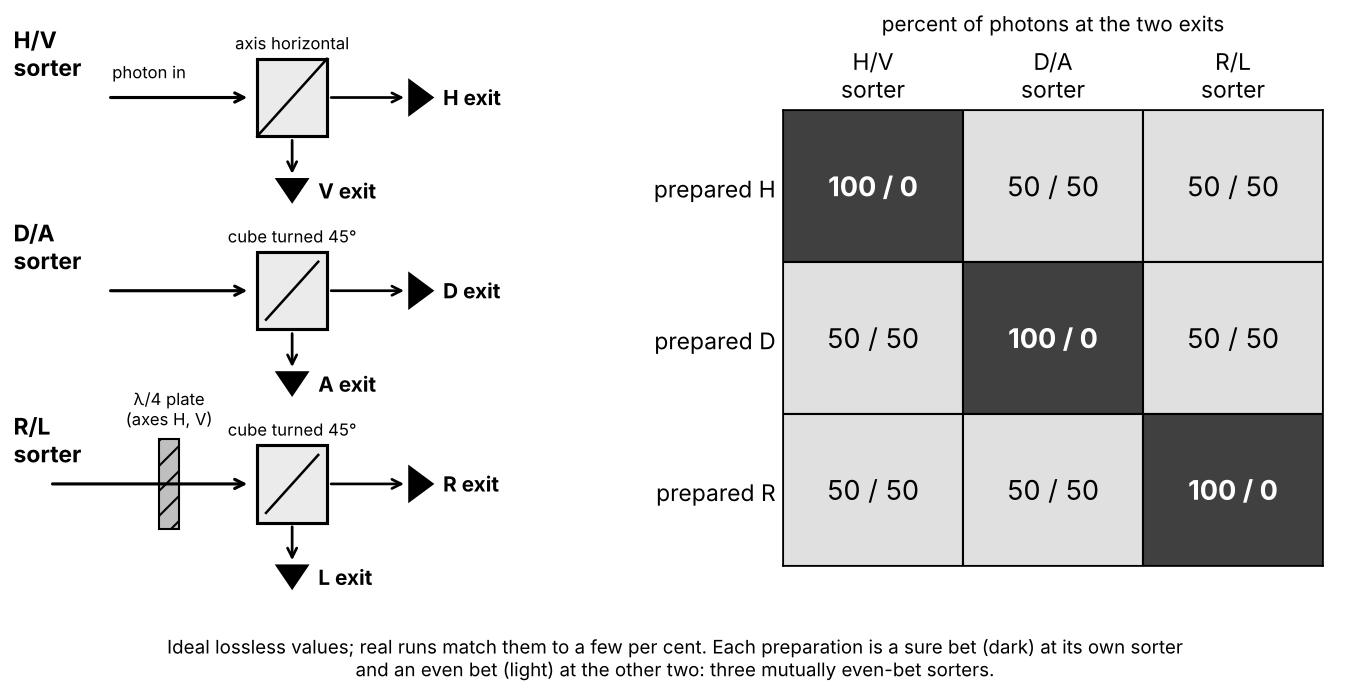
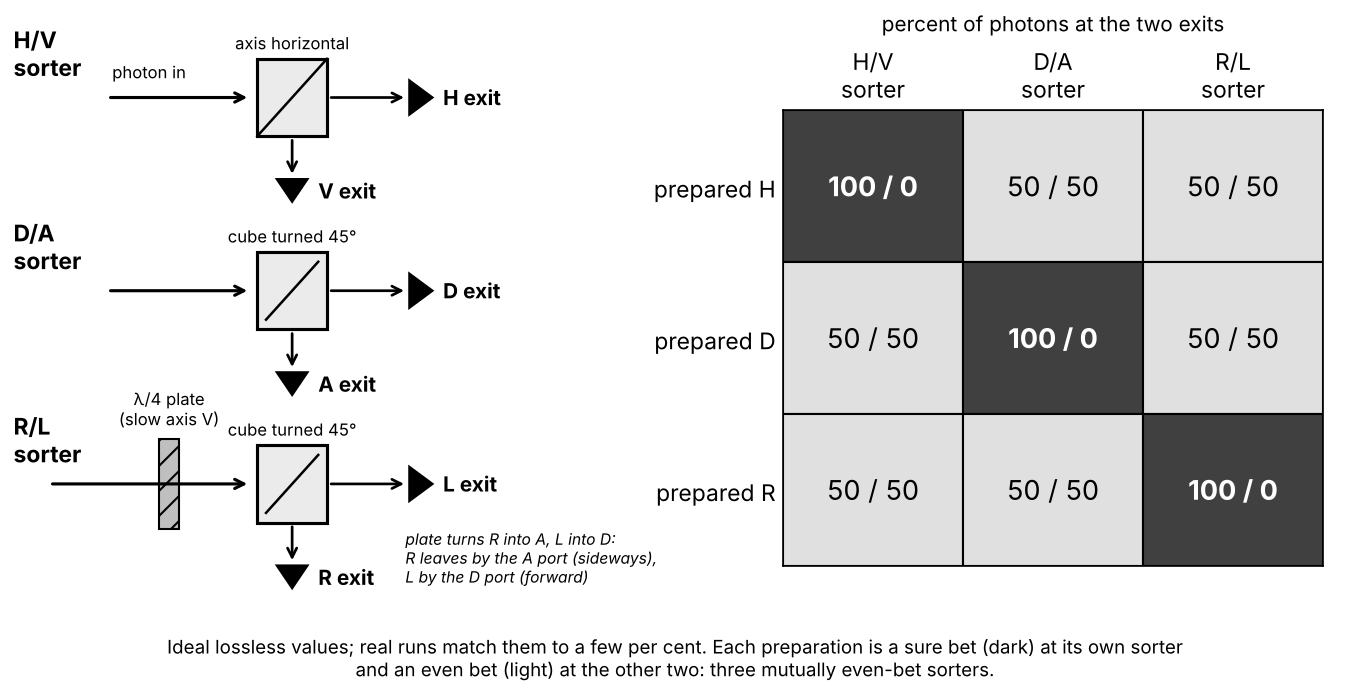
Tutor run (why complex and squared): redrawn C figures
Claude-Session: https://claude.ai/code/session_011EeWx5AEdppYiarvRbDBmd

diff --git a/work/20261010-122105-why-complex-and-squared/checks/fig_c-sorter-table.py b/work/20261010-122105-why-complex-and-squared/checks/fig_c-sorter-table.py
@@ -7,11 +7,11 @@ plt.rcParams.update({"font.size":11})
 fig=plt.figure(figsize=(9,4.6))
 axL=fig.add_axes([0.01,0.14,0.43,0.84]); axR=fig.add_axes([0.58,0.18,0.40,0.66])
 axL.set_xlim(0,10); axL.set_ylim(0,9); axL.axis("off")
-def cube(ax,x,y,rot45,label,qwp=False):
+def cube(ax,x,y,rot45,label,qwp=False,ports=None):
     ax.annotate("",xy=(x-0.1,y),xytext=(x-2.6 if not qwp else x-3.6,y),arrowprops=dict(arrowstyle="->",lw=1.5))
     if qwp:
         ax.add_patch(Rectangle((x-1.7,y-0.7),0.35,1.4,fc="0.75",ec="k",hatch="//"))
-        ax.text(x-1.52,y+0.85,"λ/4 plate\n(axes H, V)",ha="center",va="bottom",fontsize=8)
+        ax.text(x-1.52,y+0.85,"λ/4 plate\n(slow axis V)",ha="center",va="bottom",fontsize=8)
     ax.add_patch(Rectangle((x,y-0.6),1.2,1.2,fc="0.92",ec="k",lw=1.5))
     if rot45: ax.plot([x+0.15,x+1.05],[y-0.45,y+0.45],"k-",lw=1.2); ax.text(x+0.6,y+0.75,"cube turned 45°",ha="center",fontsize=8)
     else: ax.plot([x,x+1.2],[y-0.6,y+0.6],"k-",lw=1.2); ax.text(x+0.6,y+0.75,"axis horizontal",ha="center",fontsize=8)
@@ -19,10 +19,16 @@ def cube(ax,x,y,rot45,label,qwp=False):
     ax.annotate("",xy=(x+0.6,y-1.25),xytext=(x+0.6,y-0.6),arrowprops=dict(arrowstyle="->",lw=1.3))
     ax.add_patch(Polygon([[x+2.6,y-0.3],[x+2.6,y+0.3],[x+3.05,y]],fc="k"))
     ax.add_patch(Polygon([[x+0.3,y-1.25],[x+0.9,y-1.25],[x+0.6,y-1.65]],fc="k"))
-    a,b=label.split("/")
+    a,b=ports if ports else label.split("/")
     ax.text(x+3.2,y,a+" exit",va="center",fontsize=10,weight="bold"); ax.text(x+1.05,y-1.45,b+" exit",va="center",fontsize=10,weight="bold")
     ax.text(0.0,y+0.25,label+"\nsorter",fontsize=11,weight="bold",va="bottom")
-cube(axL,4.2,7.7,False,"H/V"); cube(axL,4.2,4.7,True,"D/A"); cube(axL,4.2,1.7,True,"R/L",qwp=True)
+cube(axL,4.2,7.7,False,"H/V"); cube(axL,4.2,4.7,True,"D/A"); cube(axL,4.2,1.7,True,"R/L",qwp=True,ports=("L","R"))
+# Model 1: Q R = A, Q L = D (Q = diag(1, i)); the 45° cube sends D forward and A sideways (as in the D/A row),
+# so after the plate L leaves by the forward (D) port and R by the sideways (A) port.
+Q=np.diag([1,1j]); R=np.array([1,1j])/np.sqrt(2); L=np.array([1,-1j])/np.sqrt(2)
+D=np.array([1,1])/np.sqrt(2); A=np.array([1,-1])/np.sqrt(2)
+assert np.allclose(Q@R,A) and np.allclose(Q@L,D)
+axL.text(6.75,0.55,"plate turns R into A, L into D:\nR leaves by the A port (sideways),\nL by the D port (forward)",fontsize=7.5,va="center",style="italic")
 axL.text(1.7,8.0,"photon in",fontsize=8)
 rows=["H","D","R"]; cols=["H/V","D/A","R/L"]
 for i,r in enumerate(rows):

diff --git a/work/20261010-122105-why-complex-and-squared/checks/fig_c-map.py b/work/20261010-122105-why-complex-and-squared/checks/fig_c-map.py
@@ -11,7 +11,7 @@ box(5.8,4.9,3.8,0.9,"Model 2: squared length of a\nsum over alternatives")
 ax.text(5.0,5.35,"=",ha="center",va="center",fontsize=22,weight="bold")
 ax.text(5.0,6.05,"shared line: chance = squared length of a sum, pair pieces only",ha="center",fontsize=9.5,style="italic")
 box(3.3,2.0,3.4,0.7,"Model 3: theorems",fc="0.85",fs=11)
-labs=[(1.6,0.9,"three sorters ⇒\npairs of reals\n(one system)"),(4.2,5.0,"parameter count +\nnetwork test ⇒ pairs of\nreals (composite systems)"),(8.4,9.1,"three-slit null\n+ Gleason\n⇒ exponent 2")]
+labs=[(1.6,0.9,"three sorters ⇒\nnot one real\nper exit\n(one system)"),(4.2,4.95,"parameter count +\nnetwork test ⇒ not real\namplitudes with the\nproduct rule (pairs)"),(8.4,9.0,"three-slit null (among powers)\n+ Gleason (given its\nassumptions) ⇒ exponent 2")]
 for xt,xl,t in labs:
     ax.annotate("",xy=(xt,4.85),xytext=(5.0,2.77),arrowprops=dict(arrowstyle="-|>",lw=1.5))
     ax.text(xl,3.8,t,ha="center",va="center",fontsize=8.5,bbox=dict(fc="w",ec="0.7",pad=2))
@@ -20,5 +20,6 @@ for i,n in enumerate(names): box(0.3+2.4*i,0.35,2.0,0.6,n,ls="--" if i==3 else "
 ax.plot([0.3,7.1],[1.15,1.15],"k-",lw=1.2); ax.plot([0.3,0.3],[1.0,1.15],"k-"); ax.plot([7.1,7.1],[1.0,1.15],"k-")
 ax.text(3.7,1.3,"same predictions, differ on meaning",ha="center",fontsize=9)
 ax.text(8.5,1.35,"slightly changed law;\ndepartures not found so far",ha="center",fontsize=8.5)
-fig.text(0.5,0.02,"How the pieces relate: Models 1 and 2 are one rule; Model 3 says why the i and the 2; interpretations differ on meaning.",ha="center",fontsize=9)
+fig.text(0.5,0.015,"How the pieces relate: Models 1 and 2 are one rule. Model 3: what consistency fixes (the 2, given Gleason's assumptions)\n"
+         "and what experiment selects (the complex pairing, together with assumptions such as the product rule). Interpretations differ on meaning.",ha="center",fontsize=9)
 fig.savefig(out,dpi=150); print("saved",os.path.abspath(out))
